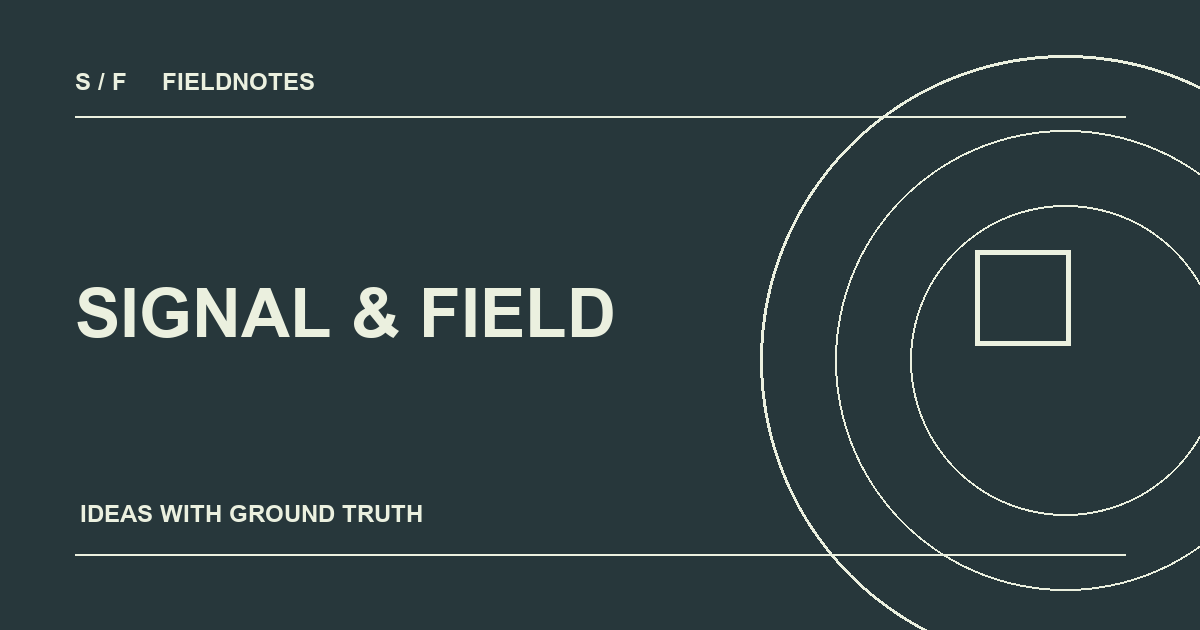
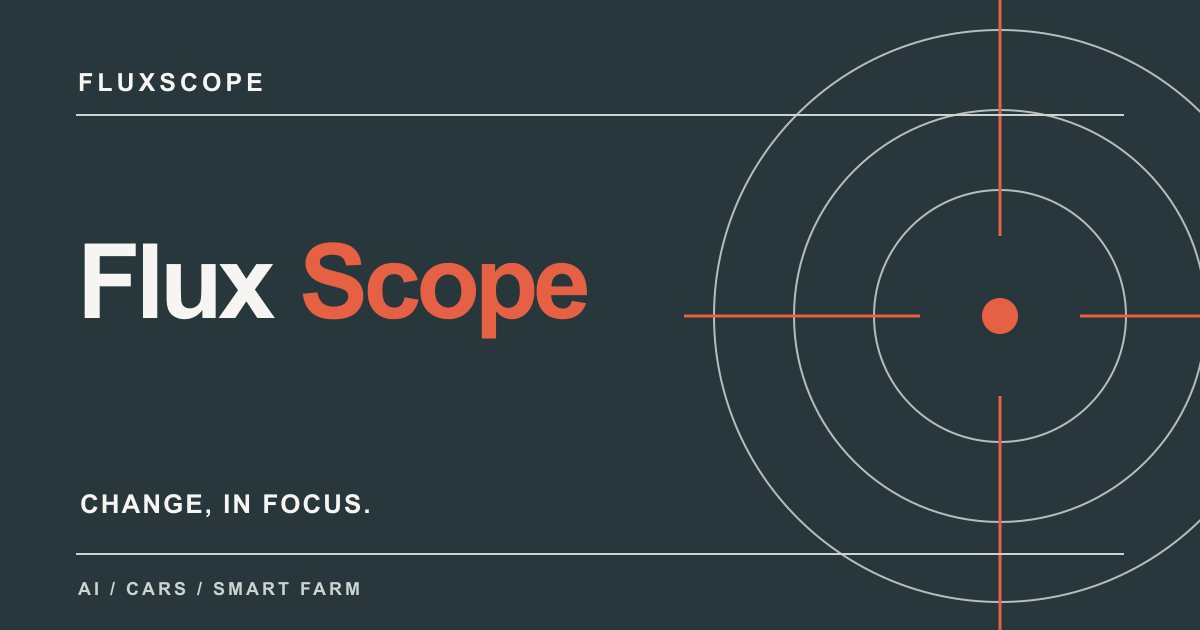
Rebrand blog as FluxScope

diff --git a/src/styles/global.css b/src/styles/global.css
@@ -39,11 +39,9 @@ img { max-width: 100%; height: auto; }
 .site-header { border-bottom: 1px solid var(--line); background: var(--bg); }
 .header-inner { min-height: 78px; display: flex; align-items: center; gap: 2.2rem; }
 .brand { display: inline-flex; align-items: center; gap: .8rem; font-weight: 800; font-size: 1.22rem; letter-spacing: -.055em; white-space: nowrap; }
-.brand-amp { color: var(--accent); }
-.brand-mark { width: 27px; height: 27px; display: grid; grid-template-columns: repeat(3, 1fr); gap: 3px; transform: rotate(-10deg); }
-.brand-mark span { display: block; border-radius: 1px; background: var(--accent); }
-.brand-mark span:nth-child(2) { transform: translateY(5px); }
-.brand-mark span:nth-child(3) { transform: translateY(-3px); }
+.brand-accent { color: var(--accent); }
+.brand-mark { position: relative; flex: none; width: 27px; height: 27px; border: 2px solid var(--accent); border-radius: 50%; background: linear-gradient(var(--accent), var(--accent)) center / 2px 100% no-repeat, linear-gradient(var(--accent), var(--accent)) center / 100% 2px no-repeat; }
+.brand-mark span { position: absolute; left: 50%; top: 50%; width: 7px; height: 7px; border-radius: 50%; background: var(--accent); box-shadow: 0 0 0 3px var(--bg); transform: translate(-50%, -50%); }
 .main-nav { margin-left: auto; display: flex; align-items: center; gap: 2rem; font-size: .8rem; font-weight: 750; letter-spacing: .025em; }
 .main-nav a:hover, .footer-links a:hover { color: var(--accent); }
 .header-actions { display: flex; align-items: center; gap: .55rem; margin-left: 1rem; }

diff --git a/src/lib/site.ts b/src/lib/site.ts
@@ -1,9 +1,9 @@
 import type { CollectionEntry } from 'astro:content';
 
 export const site = {
-  name: 'Signal & Field',
-  description: 'Clear, sourced notes on artificial intelligence, cars, and smart farming.',
-  author: 'Signal & Field',
+  name: 'FluxScope',
+  description: 'Clear, sourced explanations of AI, cars, and smart farming in a changing world.',
+  author: 'FluxScope',
   language: 'en',
 };
 

diff --git a/AGENTS.md b/AGENTS.md
@@ -1,4 +1,4 @@
-# Agent instructions for Signal & Field
+# Agent instructions for FluxScope
 
 - Work in English for repository files and article drafts. The site is an Astro + TypeScript static blog; do not add a backend, database, CMS, OpenAI API integration, or extra framework without a concrete requirement.
 - Keep the smallest maintainable change. Use `src/content/posts/<category>/<english-slug>.md` or `.mdx` for articles. Valid categories: `ai`, `cars`, `smartfarm`.

diff --git a/README.md b/README.md
@@ -1,4 +1,4 @@
-# Signal & Field
+# FluxScope
 
 A small, static Astro publication about AI, cars, and smart farming. Articles live as portable Markdown or MDX files. Search is generated by Pagefind at build time. There is no app server, database, CMS, or external AI API.
 

diff --git a/src/content/posts/cars/how-regenerative-braking-works.md b/src/content/posts/cars/how-regenerative-braking-works.md
@@ -5,7 +5,7 @@ publishedAt: 2026-09-20
 updatedAt: 2026-09-21
 category: cars
 tags: [electric vehicles, braking]
-author: "Signal & Field"
+author: "FluxScope"
 image:
   src: /images/regenerative-braking.png
   width: 1200

diff --git a/src/content/posts/smartfarm/start-with-soil-moisture-data.md b/src/content/posts/smartfarm/start-with-soil-moisture-data.md
@@ -5,7 +5,7 @@ publishedAt: 2026-09-19
 updatedAt: 2026-09-21
 category: smartfarm
 tags: [irrigation, sensors]
-author: "Signal & Field"
+author: "FluxScope"
 image:
   src: /images/soil-moisture.png
   width: 1200

diff --git a/src/content/posts/ai/evaluate-ai-tools-before-adoption.md b/src/content/posts/ai/evaluate-ai-tools-before-adoption.md
@@ -5,7 +5,7 @@ publishedAt: 2026-09-21
 updatedAt: 2026-09-21
 category: ai
 tags: [evaluation, workflow]
-author: "Signal & Field"
+author: "FluxScope"
 image:
   src: /images/ai-evaluation.png
   width: 1200
